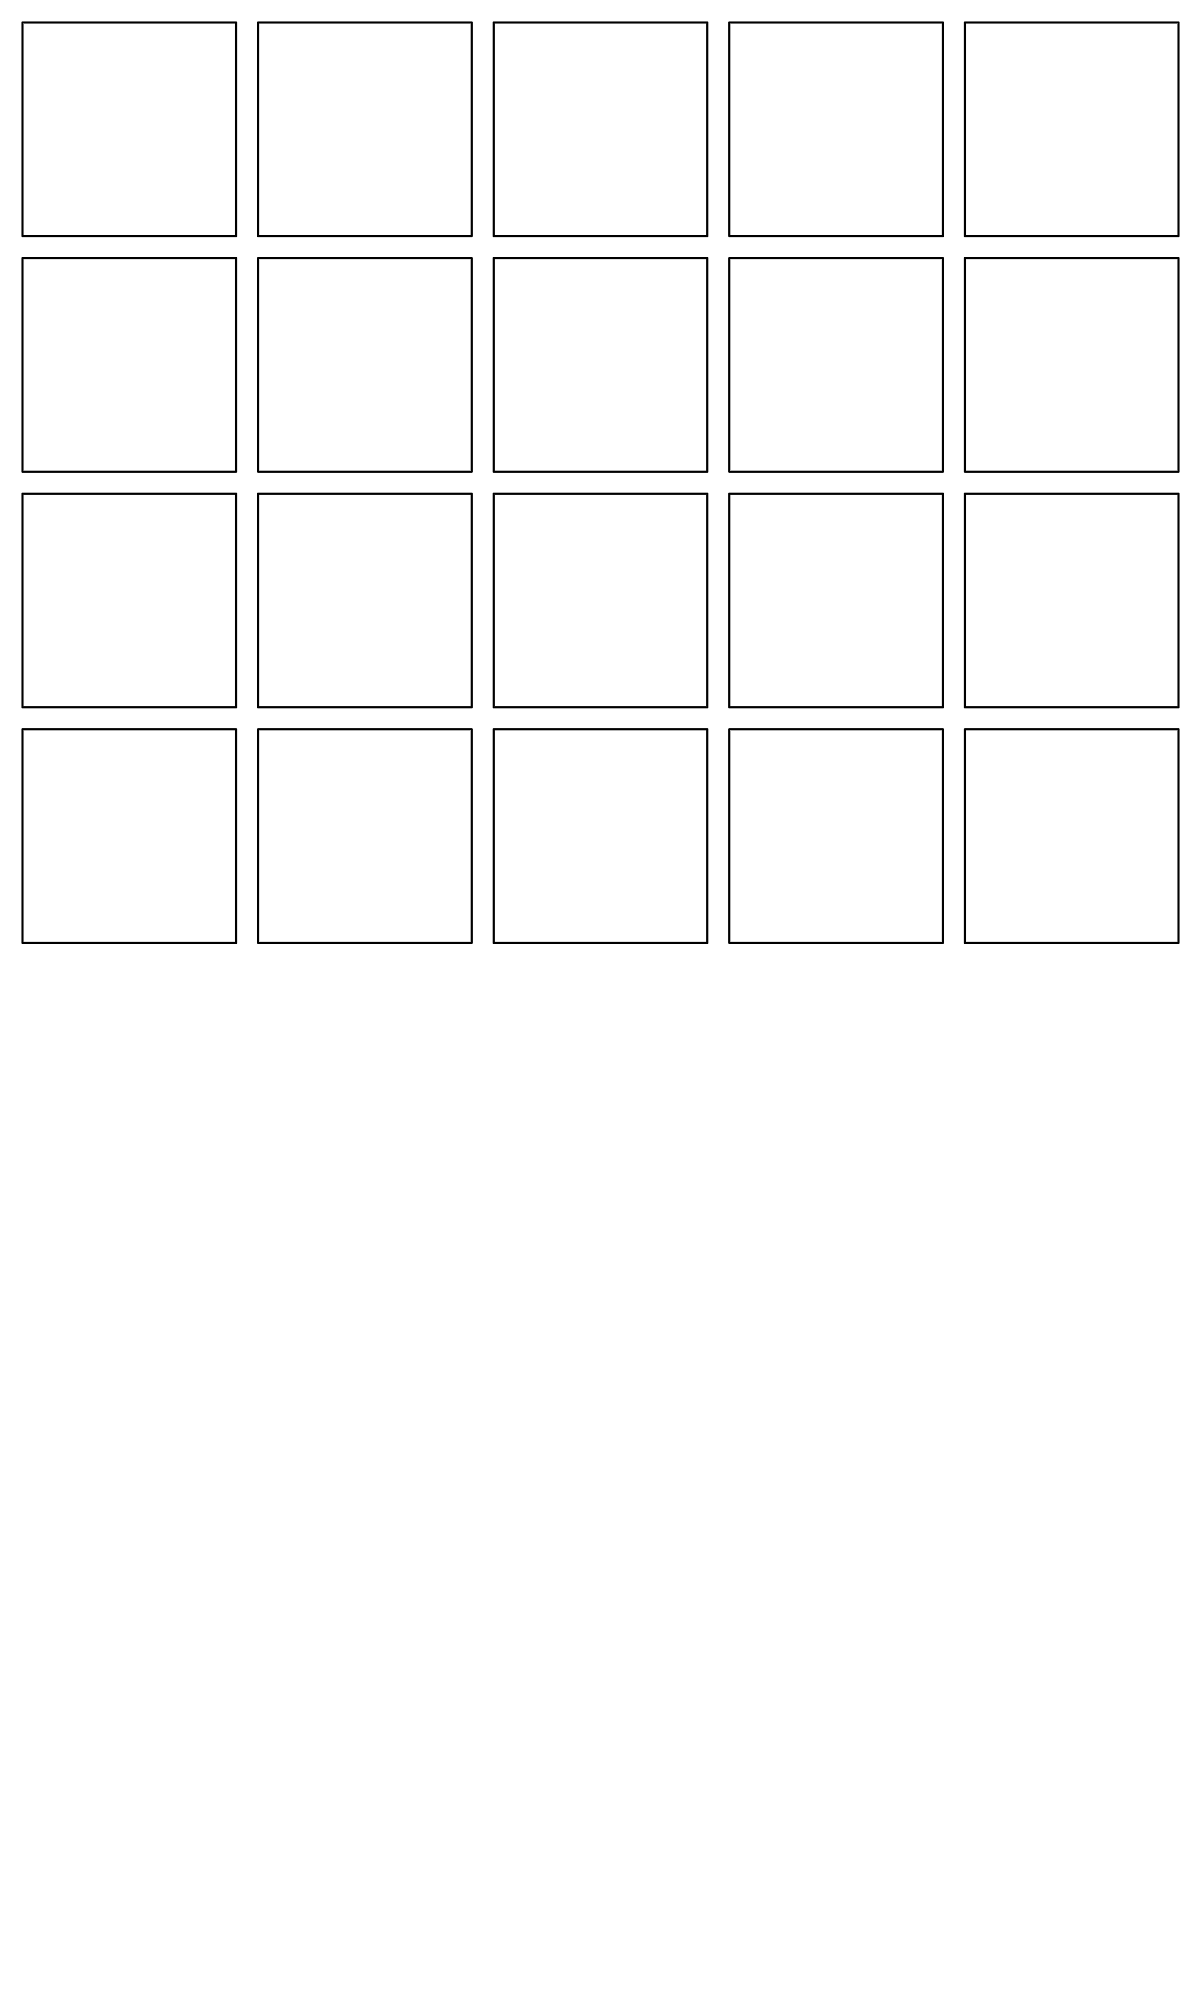
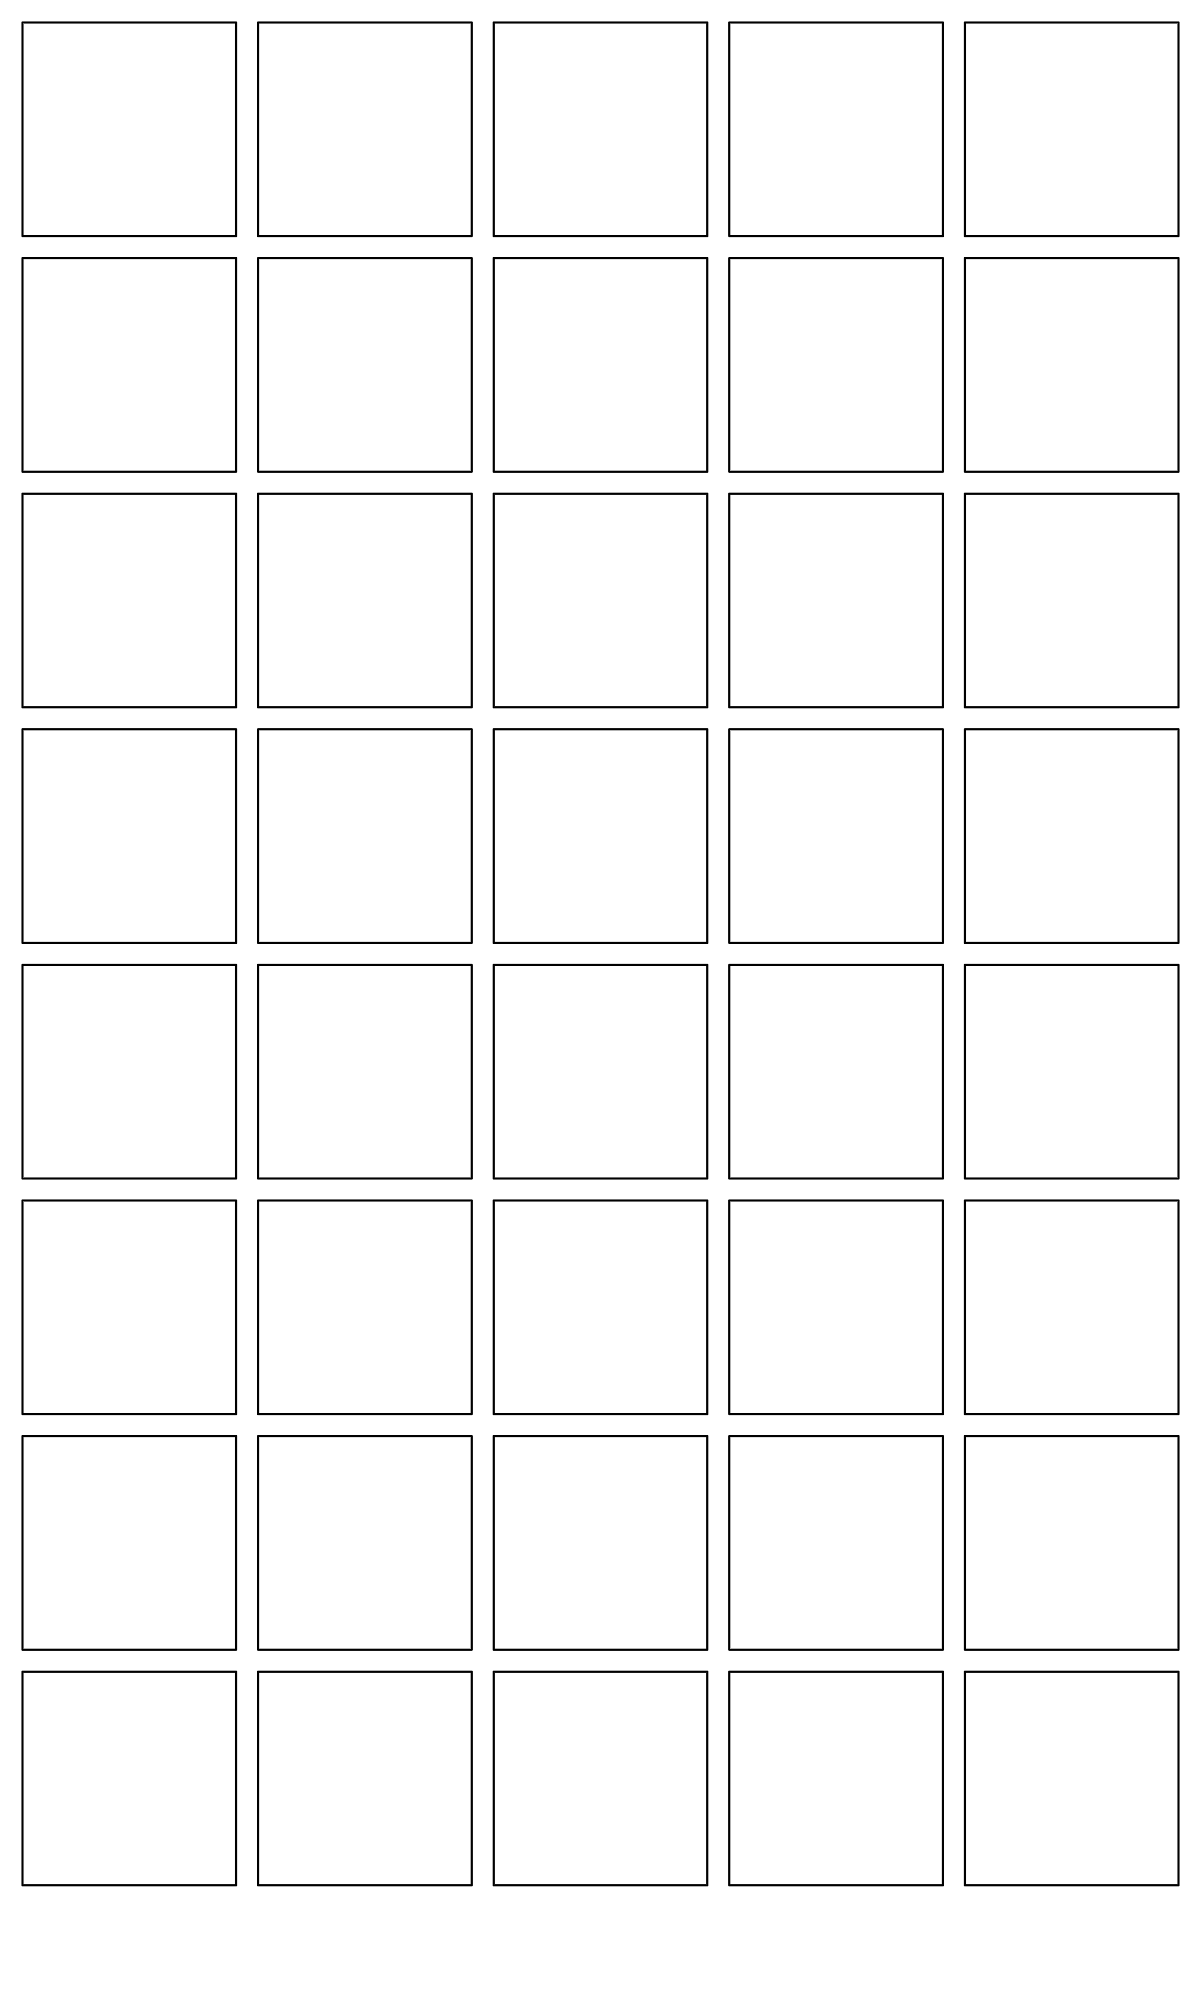
commit

diff --git a/squared-002.py b/squared-002.py
@@ -29,6 +29,18 @@ def get_square_size(page_size, spacing, columns):
 
     return square_size
 
+def get_max_lines(page_height, spacing, square_size):
+    page_height_without_outer_margins = page_height - (spacing*2)
+
+    count = 0
+    total_size = 0
+
+    while total_size < page_height_without_outer_margins:
+        count += 1
+        total_size = (count * square_size) + ((count - 1) * spacing)
+
+    return count - 1
+
 # Create a Drawing object
 with Drawing() as draw:
     # Set the fill color for the square
@@ -50,13 +62,15 @@ with Drawing() as draw:
     #  spacing = 100
     spacing = 22
     columns = 5
-    lines = 4
+    #  lines = 4
 
     #  for square in columns
 
-    squares = [(x+1, y+1) for x in range(columns) for y in range(lines)]
-
     square_size = get_square_size(page_size=width, spacing=spacing, columns=columns)
+
+    lines = get_max_lines(page_height=height, spacing=spacing, square_size=square_size)
+
+    squares = [(x+1, y+1) for x in range(columns) for y in range(lines)]
 
     for square_x, square_y in squares:
         geometry = get_square_geometry(x=square_x, y=square_y, spacing=spacing, square_size=square_size)
